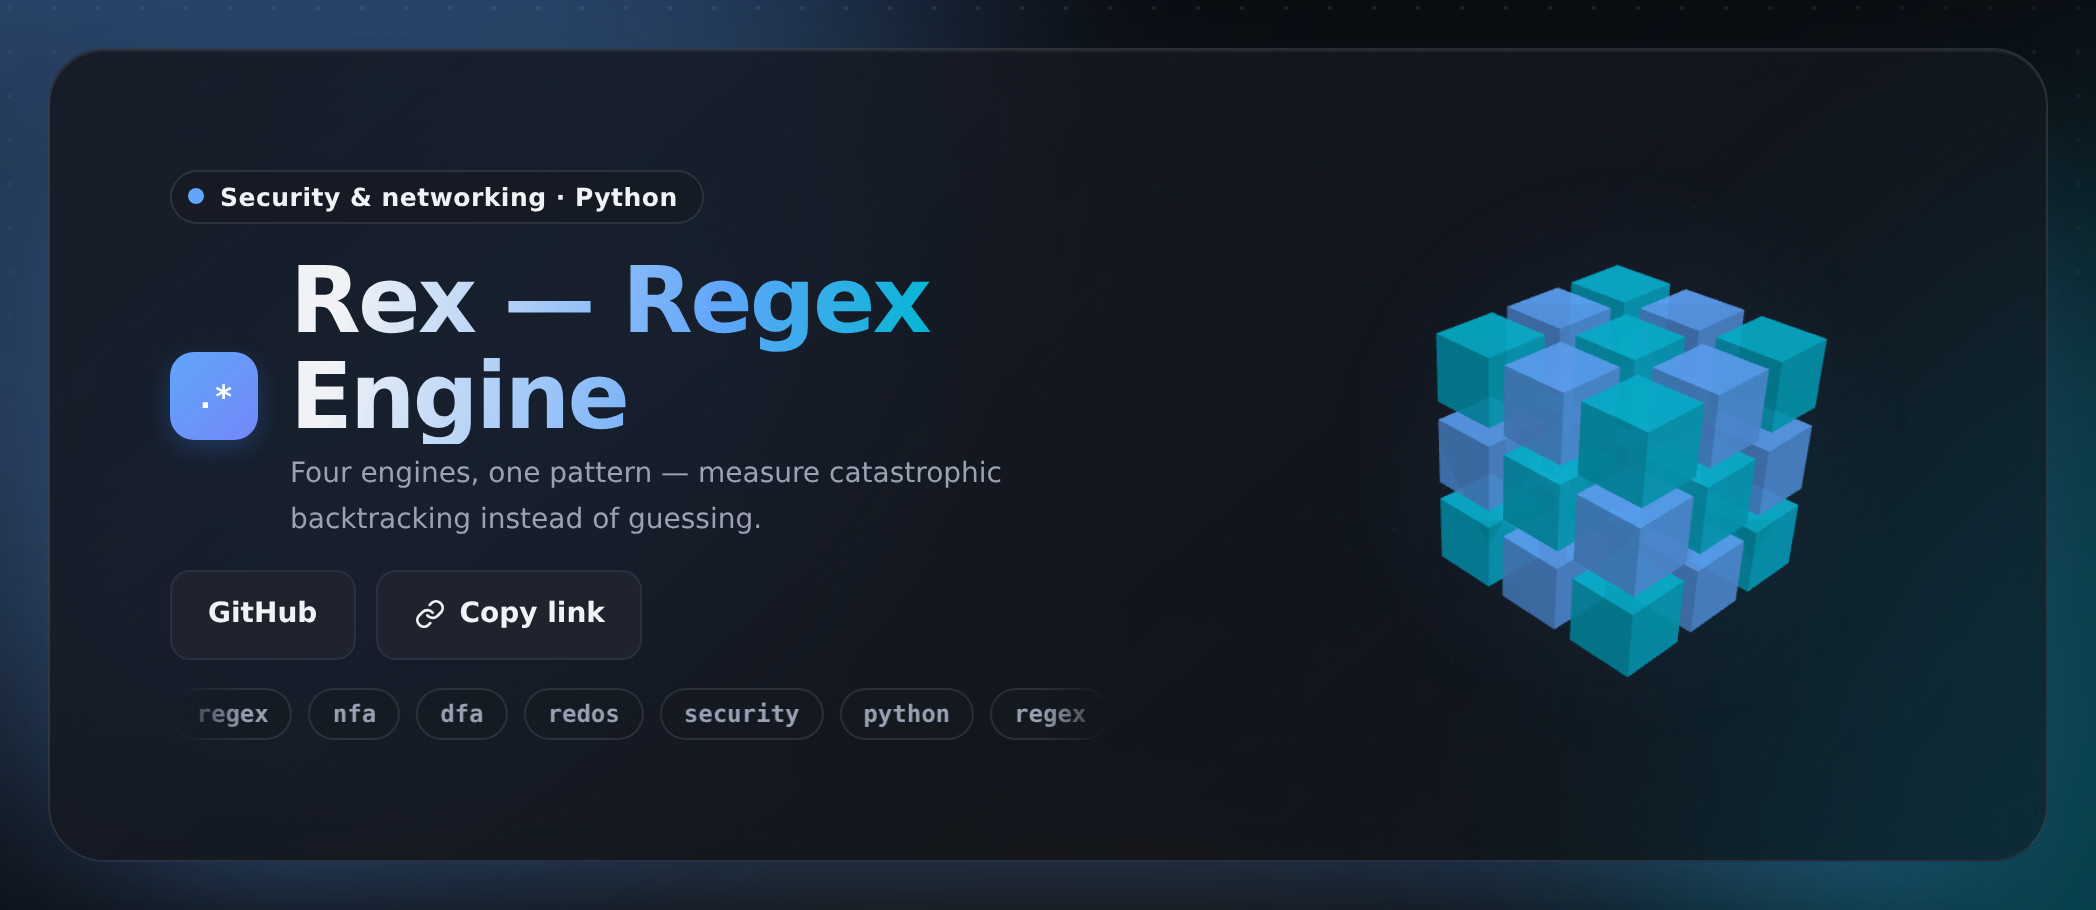
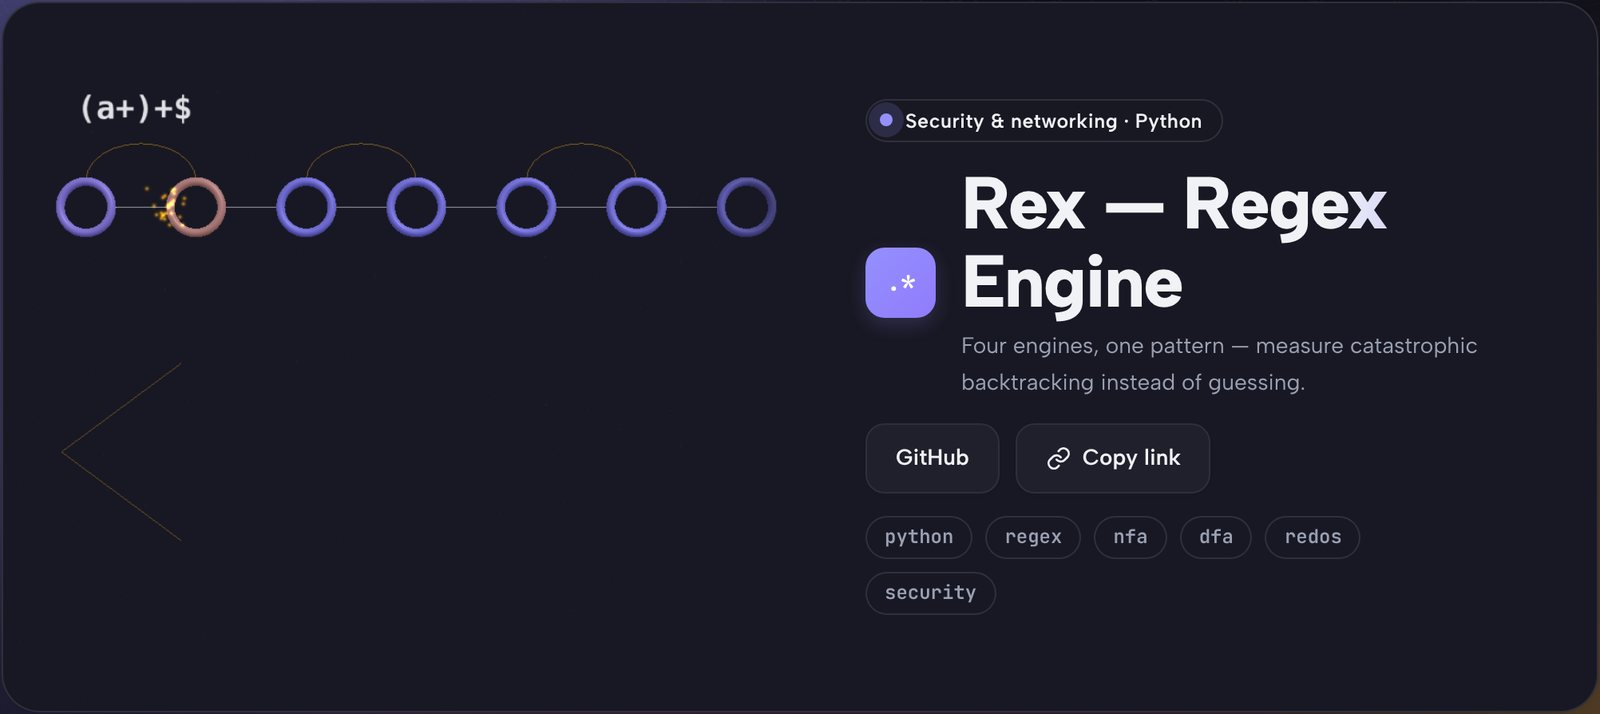
Cleaner page: solid cards and bars with nothing showing through, each tag shown once, no floating 3D window; search tags and fresh previews

diff --git a/docs/fx.css b/docs/fx.css
@@ -18,16 +18,11 @@ body { isolation: isolate; }
 .fx-cursor { position: fixed; left: 0; top: 0; z-index: -1; width: 560px; height: 560px; margin: -280px 0 0 -280px; border-radius: 50%; pointer-events: none; opacity: 0; transition: opacity .4s; background: radial-gradient(circle, color-mix(in srgb, var(--accent) 14%, transparent), transparent 62%); transform: translate3d(var(--x, -999px), var(--y, -999px), 0); }
 .fx-cursor.on { opacity: 1; }
 
-/* the hero: a glass panel with the 3D scene on the right (behind the text on phones) */
+/* the hero: one solid panel with the 3D scene on the right (behind the text on phones) */
 .fx-hero { --pad: clamp(24px, 5vw, 60px); position: relative; isolation: isolate; overflow: hidden; display: flex; flex-direction: column; justify-content: center; align-items: flex-start; gap: 14px;
   min-height: clamp(380px, 56vh, 580px); margin-top: 14px; padding: var(--pad); border: 1px solid var(--fx-line); border-radius: 28px;
-  background: linear-gradient(140deg, color-mix(in srgb, var(--surface, #fff) 92%, transparent), color-mix(in srgb, var(--surface, #fff) 55%, transparent));
-  -webkit-backdrop-filter: blur(10px) saturate(140%); backdrop-filter: blur(10px) saturate(140%); box-shadow: 0 30px 80px -40px color-mix(in srgb, var(--accent) 45%, transparent), 0 1px 0 rgb(255 255 255 / .06) inset; }
-.fx-hero::before { content: ""; position: absolute; inset: -1px; z-index: -1; border-radius: inherit; padding: 1px; pointer-events: none;
-  background: conic-gradient(from var(--fx-angle, 0deg), transparent 0 70%, var(--accent) 80%, var(--fx-2) 88%, transparent 96%);
-  -webkit-mask: linear-gradient(#000 0 0) content-box, linear-gradient(#000 0 0); -webkit-mask-composite: xor; mask-composite: exclude; animation: fx-beam 7s linear infinite; }
-@property --fx-angle { syntax: "<angle>"; inherits: false; initial-value: 0deg; }
-@keyframes fx-beam { to { --fx-angle: 360deg; } }
+  background: var(--surface, #fff);
+  box-shadow: 0 1px 2px rgb(0 0 0 / .06), 0 18px 40px -28px rgb(0 0 0 / .28); }
 .fx-hero > :not(.fx-scene) { position: relative; z-index: 1; max-width: min(600px, 54%); }
 .fx-hero.top > .brand, .fx-hero.top > .actions { max-width: min(600px, 54%); }
 .fx-scene { position: absolute !important; inset: 0 0 0 36%; z-index: 0 !important; pointer-events: none; opacity: 0; transition: opacity 1.4s var(--fx-ease);
@@ -41,10 +36,9 @@ body { isolation: isolate; }
 .fx-title { background: linear-gradient(100deg, var(--text) 0%, var(--text) 30%, var(--accent) 48%, var(--fx-2) 58%, var(--text) 76%) 0 0 / 250% 100%;
   -webkit-background-clip: text; background-clip: text; color: transparent !important; -webkit-text-fill-color: transparent; animation: fx-shine 9s ease-in-out infinite alternate; }
 @keyframes fx-shine { from { background-position: 100% 0; } to { background-position: 0% 0; } }
-.fx-tags { display: flex; gap: 8px; overflow: hidden; width: 100%; -webkit-mask-image: linear-gradient(90deg, transparent, #000 8%, #000 92%, transparent); mask-image: linear-gradient(90deg, transparent, #000 8%, #000 92%, transparent); }
-.fx-tags > div { display: flex; gap: 8px; flex: none; animation: fx-marquee 32s linear infinite; }
-.fx-tags span { flex: none; padding: 4px 11px; border-radius: 999px; font: 600 12px/1.4 var(--mono, ui-monospace, monospace); color: var(--muted); border: 1px solid var(--fx-line); background: color-mix(in srgb, var(--surface, #fff) 60%, transparent); }
-@keyframes fx-marquee { to { transform: translateX(calc(-50% - 4px)); } }
+.fx-tags { display: flex; width: 100%; margin: 0; padding: 0; list-style: none; }
+.fx-tags > div { display: flex; flex-wrap: wrap; gap: 8px; }
+.fx-tags span { flex: none; padding: 4px 11px; border-radius: 999px; font: 600 12px/1.4 var(--mono, ui-monospace, monospace); color: var(--muted); border: 1px solid var(--fx-line); background: var(--surface, #fff); }
 .fx-stats { display: flex; flex-wrap: wrap; gap: 10px 26px; margin-top: 4px; }
 .fx-stats div { display: grid; }
 .fx-stats b { font-size: clamp(22px, 3vw, 30px); font-weight: 800; letter-spacing: -.02em; font-variant-numeric: tabular-nums; }
@@ -52,7 +46,7 @@ body { isolation: isolate; }
 
 /* glass navigation with scroll spy */
 .fx-nav { position: sticky; top: 10px; z-index: 50; display: flex; align-items: center; gap: 6px; margin: 12px 0 0; padding: 6px; border-radius: 16px; border: 1px solid var(--fx-line);
-  background: color-mix(in srgb, var(--surface, #fff) 72%, transparent); -webkit-backdrop-filter: blur(14px) saturate(160%); backdrop-filter: blur(14px) saturate(160%); box-shadow: 0 12px 30px -18px rgb(0 0 0 / .35); overflow-x: auto; scrollbar-width: none; }
+  background: var(--surface, #fff); box-shadow: 0 12px 30px -18px rgb(0 0 0 / .35); overflow-x: auto; scrollbar-width: none; }
 .fx-nav::-webkit-scrollbar { display: none; }
 .fx-nav a { flex: none; padding: 7px 12px; border-radius: 10px; font: 600 13px/1.2 var(--font, system-ui); color: var(--muted); text-decoration: none; transition: color .2s, background .2s; white-space: nowrap; }
 .fx-nav a:hover, .fx-nav a[aria-current="true"] { color: var(--text); background: color-mix(in srgb, var(--accent) 12%, transparent); }
@@ -87,7 +81,7 @@ svg circle.fx-pop { transform-box: fill-box; transform-origin: center; animation
 
 /* the dock: theme, motion, share, back to top */
 .fx-dock { position: fixed; right: max(14px, env(safe-area-inset-right)); bottom: max(14px, env(safe-area-inset-bottom)); z-index: 900; display: flex; gap: 4px; padding: 5px; border-radius: 16px;
-  border: 1px solid var(--fx-line); background: color-mix(in srgb, var(--surface, #fff) 72%, transparent); -webkit-backdrop-filter: blur(14px) saturate(160%); backdrop-filter: blur(14px) saturate(160%);
+  border: 1px solid var(--fx-line); background: var(--surface, #fff);
   box-shadow: 0 16px 40px -18px rgb(0 0 0 / .45); }
 .fx-dock button { display: grid; place-items: center; width: 38px; height: 38px; padding: 0; border: 0; border-radius: 11px; background: transparent; color: var(--text); cursor: pointer; transition: background .2s, transform .25s var(--fx-ease), opacity .3s, width .3s var(--fx-ease); }
 .fx-dock button:hover { background: color-mix(in srgb, var(--accent) 14%, transparent); transform: translateY(-2px); }
@@ -115,7 +109,7 @@ svg circle.fx-pop { transform-box: fill-box; transform-origin: center; animation
   .fx-bg i { filter: blur(50px); }
 }
 @media (prefers-reduced-motion: reduce) {
-  .fx-bg i, .fx-hero::before, .fx-title, .fx-tags > div, .fx-shimmer::after, .fx-eyebrow::before { animation: none !important; }
+  .fx-bg i, .fx-title, .fx-shimmer::after, .fx-eyebrow::before { animation: none !important; }
   .fx-reveal { opacity: 1; transform: none; filter: none; transition: none; }
   svg .fx-draw { animation: none; stroke-dashoffset: 0; }
   svg circle.fx-pop { animation: none; }
@@ -173,21 +167,20 @@ button.fx-reset:hover:not(:disabled) svg { transform: rotate(-70deg); }
 :root[data-look] .btn { border-radius: var(--fx-control-radius); }
 
 /* cards and the hero panel, one family of styles per project */
-:root[data-card="outline"] .card { background: transparent; box-shadow: none; -webkit-backdrop-filter: none; backdrop-filter: none; border: 1px solid color-mix(in srgb, var(--text, #111) 20%, transparent); }
-:root[data-card="outline"] .fx-hero { background: transparent; box-shadow: none; -webkit-backdrop-filter: none; backdrop-filter: none; }
+:root[data-card="outline"] .card { background: var(--surface); box-shadow: none; -webkit-backdrop-filter: none; backdrop-filter: none; border: 1px solid color-mix(in srgb, var(--text, #111) 20%, transparent); }
+:root[data-card="outline"] .fx-hero { box-shadow: none; }
 :root[data-card="solid"] .card { background: var(--surface); -webkit-backdrop-filter: none; backdrop-filter: none; box-shadow: 0 1px 2px rgb(0 0 0 / .06); border: 1px solid var(--border, var(--line)); }
 :root[data-card="solid"] .fx-hero { background: var(--surface); -webkit-backdrop-filter: none; backdrop-filter: none; }
-:root[data-card="raised"] .card { border-color: transparent; box-shadow: 0 26px 50px -30px color-mix(in srgb, var(--accent) 60%, transparent), 0 2px 8px -3px rgb(0 0 0 / .14); }
-:root[data-card="raised"] .fx-hero { box-shadow: 0 40px 90px -45px color-mix(in srgb, var(--accent) 70%, transparent); }
-:root[data-card="brutal"] .card { background: var(--surface); border: 2px solid var(--text, #111); box-shadow: 6px 6px 0 var(--accent); -webkit-backdrop-filter: none; backdrop-filter: none; }
-:root[data-card="brutal"] .fx-hero { background: var(--surface); border: 2px solid var(--text, #111); box-shadow: 9px 9px 0 var(--accent); -webkit-backdrop-filter: none; backdrop-filter: none; }
-:root[data-card="brutal"] .fx-hero::before { display: none; }
+:root[data-card="raised"] .card { border-color: transparent; box-shadow: 0 1px 3px rgb(0 0 0 / .08), 0 14px 32px -22px rgb(0 0 0 / .32); }
+:root[data-card="raised"] .fx-hero { box-shadow: 0 1px 3px rgb(0 0 0 / .08), 0 26px 56px -34px rgb(0 0 0 / .4); }
+:root[data-card="brutal"] .card { background: var(--surface); border: 2px solid color-mix(in srgb, var(--text, #111) 85%, transparent); box-shadow: 0 1px 2px rgb(0 0 0 / .08); -webkit-backdrop-filter: none; backdrop-filter: none; }
+:root[data-card="brutal"] .fx-hero { background: var(--surface); border: 2px solid color-mix(in srgb, var(--text, #111) 85%, transparent); box-shadow: 0 1px 2px rgb(0 0 0 / .08); -webkit-backdrop-filter: none; backdrop-filter: none; }
 :root[data-card="brutal"] .btn { border-width: 2px; }
 :root[data-card="tint"] .card { background: color-mix(in srgb, var(--accent) 7%, var(--surface)); border-color: color-mix(in srgb, var(--accent) 24%, transparent); }
 :root[data-card="tint"] .fx-hero { background: linear-gradient(140deg, color-mix(in srgb, var(--accent) 11%, var(--surface)), color-mix(in srgb, var(--fx-2) 9%, var(--surface))); }
 :root[data-card="rail"] .card { border-left: 4px solid var(--accent); }
 :root[data-card="rail"] .fx-hero { border-left: 6px solid var(--accent); }
-:root[data-card="glass"] .card { background: color-mix(in srgb, var(--surface) 58%, transparent); -webkit-backdrop-filter: blur(20px) saturate(170%); backdrop-filter: blur(20px) saturate(170%); border: 1px solid color-mix(in srgb, #fff 22%, transparent); box-shadow: 0 1px 0 rgb(255 255 255 / .12) inset, 0 18px 40px -30px rgb(0 0 0 / .4); }
+:root[data-card="glass"] .card { background: color-mix(in srgb, var(--surface) 94%, transparent); -webkit-backdrop-filter: blur(14px); backdrop-filter: blur(14px); border: 1px solid color-mix(in srgb, var(--text, #111) 12%, transparent); box-shadow: 0 1px 2px rgb(0 0 0 / .06), 0 16px 36px -28px rgb(0 0 0 / .35); }
 :root[data-card="soft"] .card { border-color: transparent; background: color-mix(in srgb, var(--accent) 4%, var(--surface)); box-shadow: inset 0 0 0 1px color-mix(in srgb, var(--accent) 13%, transparent), 0 14px 32px -24px rgb(0 0 0 / .35); }
 :root[data-card="soft"] .fx-hero { border-color: transparent; }
 
@@ -205,7 +198,7 @@ button.fx-reset:hover:not(:disabled) svg { transform: rotate(-70deg); }
   html[data-hero="center"] :is(.fx-hero, header.top.fx-hero) { align-items: center; text-align: center; padding-bottom: calc(var(--pad) + 270px); justify-content: flex-start; }
   html[data-hero="center"] .fx-hero > :not(.fx-scene), html[data-hero="center"] header.top.fx-hero > :is(.brand, .actions), html[data-hero="center"] header.top.fx-hero .fx-tags { max-width: min(760px, 100%); }
   html[data-hero="center"] header.top.fx-hero > .brand { flex-direction: column; text-align: center; }
-  html[data-hero="center"] :is(.fx-hero .links, header.top.fx-hero > .actions) { justify-content: center; }
+  html[data-hero="center"] :is(.fx-hero .links, header.top.fx-hero > .actions, .fx-tags, .fx-tags > div) { justify-content: center; }
   html[data-hero="center"] .fx-hero .fx-scene, html[data-hero="center"][data-fx-compact] .fx-hero .fx-scene { inset: auto 0 0 0; height: 310px; -webkit-mask-image: linear-gradient(0deg, #000 74%, transparent); mask-image: linear-gradient(0deg, #000 74%, transparent); }
 }
 
@@ -221,7 +214,7 @@ button.fx-reset:hover:not(:disabled) svg { transform: rotate(-70deg); }
 :root[data-motif="plain"] .fx-bg i { opacity: .12; }
 /* the scene follows the reader in a corner window once the hero scrolls away (wide screens only) */
 .fx-pip { position: fixed; left: 18px; bottom: 18px; z-index: 60; width: 200px; height: 130px; border-radius: 16px; overflow: hidden; cursor: pointer; isolation: isolate;
-  background: color-mix(in srgb, var(--surface, #fff) 70%, transparent); -webkit-backdrop-filter: blur(16px) saturate(160%); backdrop-filter: blur(16px) saturate(160%);
+  background: var(--surface, #fff);
   border: 1px solid color-mix(in srgb, var(--accent) 32%, transparent); box-shadow: 0 26px 50px -26px color-mix(in srgb, var(--accent) 60%, transparent), 0 2px 10px rgb(0 0 0 / .12);
   opacity: 0; transform: translateY(18px) scale(.94); transition: opacity .45s var(--fx-ease, ease), transform .45s var(--fx-ease, ease); }
 .fx-pip.on { opacity: 1; transform: none; }
@@ -238,7 +231,7 @@ body:has(input:focus, textarea:focus, select:focus, [contenteditable]:focus) .fx
 :root[data-look] .fx-reveal { transform: perspective(1100px) translateY(30px) rotateX(9deg) scale(.985); transform-origin: 50% 0; }
 :root[data-look] .fx-reveal.fx-in { transform: none; }
 :root[data-look] .card:focus-within { border-color: color-mix(in srgb, var(--accent) 55%, transparent); box-shadow: 0 0 0 1px color-mix(in srgb, var(--accent) 45%, transparent), 0 22px 44px -26px color-mix(in srgb, var(--accent) 65%, transparent); transition: box-shadow .35s, border-color .35s; }
-:root[data-card="brutal"] .card:focus-within { box-shadow: 8px 8px 0 var(--accent); }
+:root[data-card="brutal"] .card:focus-within { box-shadow: 0 0 0 3px color-mix(in srgb, var(--accent) 40%, transparent); }
 /* the page pattern drifts slowly */
 :root[data-look]:not([data-motif="plain"]):not([data-motif="noise"]) .fx-bg b { animation: fx-pan 90s linear infinite; }
 :root[data-motif="grid"] .fx-bg b { --fx-pan: 46px 46px; }

diff --git a/docs/index.html b/docs/index.html
@@ -4,11 +4,6 @@
   <meta charset="utf-8">
   <meta name="viewport" content="width=device-width, initial-scale=1">
   <title>rex — Regex Engine Demo</title>
-  <meta property="og:type" content="website">
-  <meta property="og:title" content="rex — Regex Engine Demo">
-  <meta property="og:description" content="Measure ReDoS cost across backtracking, Thompson NFA and lazy DFA engines — with a pattern safety checker and live matcher.">
-  <meta property="og:url" content="https://umer-78.github.io/regex-engine/">
-  <meta name="twitter:card" content="summary">
   <meta name="description" content="Measure ReDoS cost across backtracking, Thompson NFA and lazy DFA engines — with a pattern safety checker and live matcher.">
   <meta name="theme-color" content="#6f66d6" media="(prefers-color-scheme: light)">
   <meta name="theme-color" content="#0e0e19" media="(prefers-color-scheme: dark)">
@@ -618,6 +613,8 @@ html.mk-pre header.top, html.mk-pre main section, html.mk-pre section.card, html
 :root[data-look][data-theme="dark"] { --accent: #9490fe; --accent-hover: #a8a9fb; --accent-soft: rgb(148 144 254 / 0.14); --accent-glow: rgb(148 144 254 / 0.2); --on-accent: #10101e; --fx-2: #e6a23b; --fx-3: #fc98d5; --bg: #0e0e19; --bg-elevated: #151520; --surface: #181824; --surface-2: #20202d; --surface-3: #292a37; --border: #2f2f3a; --border-strong: #41414d; --line: #2f2f3a; }</style>
 <link rel="modulepreload" href="https://cdn.jsdelivr.net/npm/three@0.186.1/build/three.module.min.js" data-fx>
 <link rel="modulepreload" href="fx3d.js" data-fx>
+<link rel="canonical" href="https://umer-78.github.io/regex-engine/">
+<script type="application/ld+json">{"@context": "https://schema.org", "@type": "WebApplication", "name": "rex — Regex Engine Demo", "url": "https://umer-78.github.io/regex-engine/", "applicationCategory": "DeveloperApplication", "operatingSystem": "Any (runs in a web browser)", "isAccessibleForFree": true, "author": {"@type": "Person", "name": "Umer Hashmi", "url": "https://umer-78.github.io/"}, "description": "Measure ReDoS cost across backtracking, Thompson NFA and lazy DFA engines — with a pattern safety checker and live matcher.", "image": "https://umer-78.github.io/regex-engine/og.jpg", "sameAs": "https://github.com/umer-78/regex-engine"}</script>
 </head>
 <body>
   <a class="skip-link" href="#main">Skip to content</a>
@@ -640,7 +637,7 @@ html.mk-pre header.top, html.mk-pre main section, html.mk-pre section.card, html
       <div class="actions">
         <a class="btn" href="https://github.com/umer-78/regex-engine">GitHub</a>
       </div>
-      <div class="fx-tags" aria-hidden="true"><div><span>python</span><span>regex</span><span>nfa</span><span>dfa</span><span>redos</span><span>security</span><span>python</span><span>regex</span><span>nfa</span><span>dfa</span><span>redos</span><span>security</span></div></div>
+      <div class="fx-tags"><div><span>python</span><span>regex</span><span>nfa</span><span>dfa</span><span>redos</span><span>security</span></div></div>
     </header>
 
     <section class="card">

diff --git a/docs/fx3d.js b/docs/fx3d.js
@@ -316,30 +316,7 @@ export function mount(host, kind = 'ml') {
   }
   const wake = () => { if (!stopped && (visible || pip) && !raf) { last = performance.now(); raf = requestAnimationFrame(frame); } };
   addEventListener('fx:motion', wake);
-  // once the hero scrolls away on a wide screen, the scene follows the reader in a small window at the corner
-  const roomy = matchMedia('(min-width: 1360px) and (pointer: fine)');
-  let dismissed = false;
-  try { dismissed = sessionStorage.getItem('fx:pip') === 'off'; } catch { /* storage blocked */ }
-  const dock = (on) => {
-    if (on === pip || stopped) return;
-    if (on && !shell) {
-      shell = document.createElement('div');
-      shell.className = 'fx-pip';
-      shell.title = 'Back to the top';
-      shell.innerHTML = '<button type="button" aria-label="Close the 3D window">&times;</button>';
-      shell.addEventListener('click', (ev) => {
-        if (ev.target.closest('button')) { dismissed = true; try { sessionStorage.setItem('fx:pip', 'off'); } catch { /* storage blocked */ } dock(false); return; }
-        host.scrollIntoView({ behavior: reduce ? 'auto' : 'smooth', block: 'start' });
-      });
-      document.body.append(shell);
-    }
-    pip = on;
-    if (on) { shell.prepend(box); requestAnimationFrame(() => shell.classList.add('on')); }
-    else { shell?.classList.remove('on'); host.prepend(box); }
-    fit();
-    wake();
-  };
-  new IntersectionObserver(([e]) => { visible = e.isIntersecting; dock(!visible && roomy.matches && !dismissed); wake(); }).observe(host);
+  new IntersectionObserver(([e]) => { visible = e.isIntersecting; wake(); }).observe(host);
   document.addEventListener('visibilitychange', () => { if (!document.hidden) wake(); });
   raf = requestAnimationFrame((n) => { frame(n); box.classList.add('on'); });
   return {
